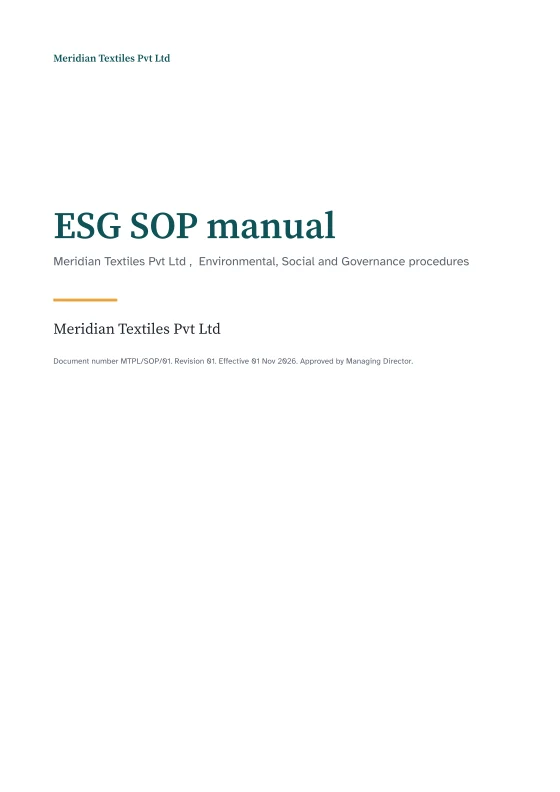
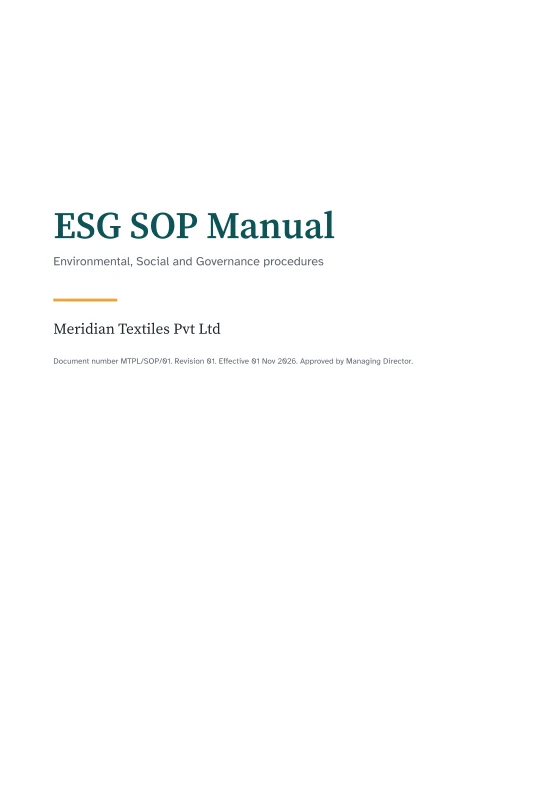
Fix new document template fonts, text and export parity

Changed region(s): [[0.0911, 0.2727, 0.8196, 0.3333], [0.0911, 0.0606, 0.3036, 0.0909]]

diff --git a/src/lib/docx/sop-generate.ts b/src/lib/docx/sop-generate.ts
@@ -57,10 +57,6 @@ import type { RenderBlock, RenderCell, RenderChapter, RenderSection, RenderSop, 
 import { embedDocumentFontStyles, embeddedDocumentFonts } from "./document-fonts";
 
 const editorial = (ctx: Ctx) => ctx.d.id === "shop-floor" || ctx.d.id === "chapter-book";
-const sentence = (text: string) => {
-  const words = text.split(" ").map(word => word === word.toUpperCase() ? word : word.toLowerCase()).join(" ");
-  return words ? words[0].toUpperCase() + words.slice(1) : words;
-};
 
 // ---------------------------------------------------------------- units
 
@@ -753,6 +749,7 @@ function table(ctx: Ctx, input: TableSpec): TableItem {
     const rowMarginBottom = Math.min(...wanted.map((margin) => margin.bottom));
     return new TableRow({
       tableHeader: spec2.header || undefined,
+      cantSplit: editorial(ctx) || undefined,
       height: spec2.height !== undefined ? { value: tw(spec2.height - (spec2.exact ? 0 : 0)), rule: spec2.exact ? HeightRule.EXACT : HeightRule.ATLEAST } : undefined,
       children: cells.map(({ cell, width, ins, flow, items }, cellIndex) => {
         const extraTop = (cell.vAlign ?? "top") === "top" ? wanted[cellIndex].top - rowMarginTop : 0;
@@ -924,7 +921,7 @@ function callout(ctx: Ctx, items: FlowItem[], width: number): TableItem {
 
 // Every part keeps with the next, so a title never sits alone at the foot of a page (Typst: a sticky block).
 function partTitle(ctx: Ctx, title: string, anchor: string): FlowItem[] {
-  if (editorial(ctx)) return [{ t: "group", above: ctx.lead + ctx.after, below: ctx.after, keep: true, items: [{ ...par(ctx, [txt(ctx, sentence(title), { font: "heading", size: ctx.sz.h1, bold: true, color: ctx.pal.primary })], { keepNext: true, outline: 0 }), bookmark: anchor }, v(ctx.after * 0.5)] }];
+  if (editorial(ctx)) return [{ t: "group", above: ctx.lead + ctx.after, below: ctx.after, keep: true, items: [{ ...par(ctx, [txt(ctx, title, { font: "heading", size: ctx.sz.h1, bold: true, color: ctx.pal.primary })], { keepNext: true, outline: 0 }), bookmark: anchor }, v(ctx.after * 0.5)] }];
   const opener = ctx.d.sopOpener;
   const size = ctx.sz.h1 * 0.85;
   if (opener === "pillar-banner" || opener === "title-banner") {
@@ -963,7 +960,7 @@ function sectionTitle(ctx: Ctx, section: RenderSection, color: string, width: nu
     const hanging = ctx.d.sectionHeading === "hanging-number" && numbered;
     const runs: RunSpec[] = [
       ...(numbered ? [txt(ctx, section.number + (hanging ? "" : "  "), { font: "heading", size: hanging ? ctx.sz.body : ctx.sz.h2, bold: true, color: hanging ? ctx.pal.ink : ctx.pal.muted }), ...(hanging ? [{ tab: true } as RunSpec] : [])] : []),
-      txt(ctx, sentence(section.title), { font: "heading", size: ctx.sz.h2, bold: true, color: ctx.pal.primary }),
+      txt(ctx, section.title, { font: "heading", size: ctx.sz.h2, bold: true, color: ctx.pal.primary }),
     ];
     return [{ t: "group", above: ctx.after * 2, below: ctx.after, keep: true, items: [par(ctx, runs, { keepNext: true, ...(hanging ? { indentLeft: 12 * MM, hanging: 12 * MM, tabs: [{ type: "left" as const, pos: 12 * MM }] } : {}) })] }];
   }
@@ -1038,10 +1035,10 @@ function sopOpener(ctx: Ctx, sop: RenderSop, bookmarks: string[]): FlowItem[] {
   };
   if (opener === "plain-title" || opener === "chapter-numeral") {
     if (opener === "chapter-numeral") {
-      out.push(mark(par(ctx, [txt(ctx, sentence(sop.department), { size: ctx.sz.h3, color: ctx.pal.primary })], { keepNext: true })), v(3),
+      out.push(mark(par(ctx, [txt(ctx, sop.department, { size: ctx.sz.h3, color: ctx.pal.primary })], { keepNext: true })), v(3),
         par(ctx, [txt(ctx, sop.number, { font: "heading", size: 68, bold: true, color: ctx.pal.primary })], { keepNext: true }), v(5));
     }
-    const title = par(ctx, [txt(ctx, sentence(sop.title), { font: "heading", size: ctx.sz.h1, bold: true, color: opener === "chapter-numeral" ? ctx.pal.ink : ctx.pal.primary })], { keepNext: true, outline: 1 });
+    const title = par(ctx, [txt(ctx, sop.title, { font: "heading", size: ctx.sz.h1, bold: true, color: opener === "chapter-numeral" ? ctx.pal.ink : ctx.pal.primary })], { keepNext: true, outline: 1 });
     out.push(opener === "plain-title" ? mark(title) : title);
     if (opener === "plain-title" && ctx.m.kind !== "handbook") out.push(v(4), par(ctx, [txt(ctx, `Code ${sop.code}`, { size: ctx.sz.small, color: ctx.pal.muted }), txt(ctx, " ", { tracking: 6 * MM }), txt(ctx, `Department ${sop.department}`, { size: ctx.sz.small, color: ctx.pal.muted }), txt(ctx, " ", { tracking: 6 * MM }), txt(ctx, `Owner ${sop.owner}`, { size: ctx.sz.small, color: ctx.pal.muted })]));
     if (opener === "chapter-numeral") out.push(v(12));
@@ -1134,12 +1131,13 @@ function stepsBlocks(ctx: Ctx, steps: RenderStep[], width: number): FlowItem[] {
         { fill: ctx.pal.accent, inset: inset(0, 0), items: [par(ctx, [txt(ctx, step.number, { bold: true })], { align: "center", keepNext: true })] },
         { inset: inset(0, 0), keepNext: true, items: [] },
         { inset: inset(0, 0), items: [par(ctx, [txt(ctx, step.heading, { bold: true })], { keepNext: true })] },
-      ] }] }), ...(step.responsible ? [par(ctx, [txt(ctx, `Responsible: ${step.responsible}`, { size: ctx.sz.small, color: ctx.pal.muted })], { keepNext: true })] : [])] : [stack(ctx, [
+      ] }] })] : [stack(ctx, [
         [txt(ctx, `${step.number}  ${step.heading}`, { bold: true, color: ctx.pal.primaryDark })],
         step.responsible ? [txt(ctx, `Responsible: ${step.responsible}`, { size: ctx.sz.small, color: ctx.pal.muted })] : null,
       ], { keepNext: true })],
     });
     out.push(...renderBlocks(ctx, step.body, width));
+    if (ctx.d.procedure === "yellow-steps" && step.responsible) out.push(par(ctx, [txt(ctx, `Responsible: ${step.responsible}`, { size: ctx.sz.small, color: ctx.pal.muted })]));
     for (const sub of step.substeps) {
       out.push(par(ctx, [
         txt(ctx, sub.number, { bold: true }),
@@ -1256,7 +1254,7 @@ function contentsRow(ctx: Ctx, lead: string, title: string, anchor: string, colo
   const variant = ctx.d.contents;
   if (variant === "ruled-index") {
     const cells: CellSpec[] = [
-      { inset: { l: 0, r: 0, t: 5, b: 5 }, items: [par(ctx, [{ link: anchor, runs: [txt(ctx, sentence(title))] }])] },
+      { inset: { l: 0, r: 0, t: 5, b: 5 }, items: [par(ctx, [{ link: anchor, runs: [txt(ctx, title)] }])] },
       { inset: { l: 0, r: 0, t: 5, b: 5 }, items: [par(ctx, [{ pageRef: anchor, color: ctx.pal.muted }])] },
     ];
     if (ctx.m.kind !== "handbook") cells.unshift({ inset: { l: 0, r: 0, t: 5, b: 5 }, items: [par(ctx, [txt(ctx, lead, { size: ctx.sz.small, color: ctx.pal.muted })])] });
@@ -1297,7 +1295,7 @@ function contentsPage(ctx: Ctx): FlowItem[] {
   for (const chapter of m.chapters) {
     if (chapter.label) {
       out.push(v(gap));
-      if (editorial(ctx)) { out.push(par(ctx, [txt(ctx, sentence(chapter.label), { bold: true, color: ctx.pal.primary })])); } else if (variant === "pillar-index" || variant === "banner-index") {
+      if (editorial(ctx)) { out.push(par(ctx, [txt(ctx, chapter.label, { bold: true, color: ctx.pal.primary })])); } else if (variant === "pillar-index" || variant === "banner-index") {
         out.push(box(ctx, ctx.W, [par(ctx, [caps(ctx, chapter.label, { color: variant === "pillar-index" ? ctx.pal.onPrimary : ctx.pal.primary })])], {
           fill: variant === "pillar-index" ? chapter.color : ctx.pal.soft,
           inset: inset(7, 3),
@@ -1432,7 +1430,7 @@ function headerItems(ctx: Ctx, sop: SopMeta): FlowItem[] {
   const variant = ctx.d.runningHeader;
   if (variant === "plain-line" || variant === "book-rule") {
     const color = variant === "book-rule" ? ctx.pal.primary : ctx.pal.muted;
-    return [par(ctx, [txt(ctx, sentence(sop?.title ?? m.title), { size: small, color }), { tab: true }, txt(ctx, m.kind === "handbook" ? `Version ${m.control.revision}` : `${m.control.docNo}, revision ${m.control.revision}`, { size: small, color })], { blockLike: true, tabs: [{ type: "right", pos: ctx.W }] }), v(2), rule(variant === "book-rule" ? ctx.pal.primary : ctx.pal.line, RULE)];
+    return [par(ctx, [txt(ctx, sop?.title ?? m.title, { size: small, color }), { tab: true }, txt(ctx, m.kind === "handbook" ? `Version ${m.control.revision}` : `${m.control.docNo}, revision ${m.control.revision}`, { size: small, color })], { blockLike: true, tabs: [{ type: "right", pos: ctx.W }] }), v(2), rule(variant === "book-rule" ? ctx.pal.primary : ctx.pal.line, RULE)];
   }
   if (m.kind === "handbook" && variant === "control-table") {
     return [par(ctx, [txt(ctx, m.title, { bold: true }), { tab: true }, txt(ctx, `Version ${m.control.revision}  |  Effective ${m.control.effectiveDate}`, { size: small })], { tabs: [{ type: "right", pos: ctx.W }] })];
@@ -1661,9 +1659,11 @@ async function coverParts(ctx: Ctx): Promise<CoverParts> {
     const shop = d.cover === "hazard-band";
     const x = (shop ? 38 : d.page.marginXMm) * MM;
     const width = w - x - padX;
-    const items: FlowItem[] = [par(ctx, [logoOrName(ctx, 11 * MM)], { blockLike: true }), v(58 * MM - (m.company.logo ? 11 * MM : ctx.sz.h3) - ctx.after),
-      { ...heading(sentence(m.cover.title), ctx.pal.primary), lead: 2 },
-      ...(m.cover.subtitle ? [par(ctx, [txt(ctx, m.cover.subtitle.replaceAll(" | ", ", "), { size: ctx.sz.h2, color: ctx.pal.muted })], { lead: 2 })] : []), v(10 * MM),
+    const subtitle = m.cover.subtitle.split(/\s*\|\s*/).filter(segment => segment !== m.company.name && segment !== "").join(", ");
+    // A leading spacer needs the margin correction that a first text line normally absorbs.
+    const items: FlowItem[] = [...(m.company.logo ? [par(ctx, [logoOrName(ctx, 11 * MM)], { blockLike: true }), v(47 * MM - ctx.after)] : [v(58 * MM + topShift(ctx))]),
+      { ...heading(m.cover.title, ctx.pal.primary), lead: 2 },
+      ...(subtitle ? [par(ctx, [txt(ctx, subtitle, { size: ctx.sz.h2, color: ctx.pal.muted })], { lead: 2 })] : []), v(10 * MM + (subtitle ? 0 : ctx.lead + ctx.after)),
       ...(!shop ? [rule(ctx.pal.accent, 3, { right: width - 24 * MM, above: ctx.after, below: ctx.after }), v(6 * MM)] : []),
       par(ctx, [txt(ctx, m.company.name, { font: "heading", size: 16 })], { lead: 2 }),
     ];
@@ -2114,7 +2114,7 @@ export async function generateSopDocx(model: SopRenderModel, assets: ManualAsset
     },
     sections,
   });
-  return embedDocumentFontStyles(await finishXml(await unpackedDocx(doc)), families);
+  return embedDocumentFontStyles(await finishXml(await unpackedDocx(doc)), families, editorial(ctx));
 }
 
 type DocxCompiler = { compile(file: Document, prettify: undefined, overrides: never[]): JSZip };

diff --git a/src/scripts/policy-docx-regression.ts b/src/scripts/policy-docx-regression.ts
@@ -1,0 +1,69 @@
+// Policy DOCX regression against the pre-template renderer and font embedding.
+// Run: node --import tsx scripts/policy-docx-regression.ts [--tests]
+import assert from "node:assert/strict";
+import { execFileSync } from "node:child_process";
+import { writeFileSync, unlinkSync } from "node:fs";
+import { mock } from "node:test";
+import JSZip from "jszip";
+import { generateDocx } from "../lib/docx/generate";
+import { templatePreviewPolicy } from "../lib/sample-policies";
+async function normalizedDocx(data: Buffer) {
+  const zip = await JSZip.loadAsync(data);
+  const fontTable = await zip.file("word/fontTable.xml")!.async("string");
+  const rels = await zip.file("word/_rels/fontTable.xml.rels")!.async("string");
+  const keys = new Map<string, string>();
+  for (const embed of fontTable.matchAll(/<w:embed\w+\b[^>]+>/g)) {
+    const id = /r:id="([^"]+)"/.exec(embed[0])?.[1];
+    const key = /w:fontKey="([^"]+)"/.exec(embed[0])?.[1];
+    const rel = [...rels.matchAll(/<Relationship\b[^>]+>/g)].find(match => match[0].includes(`Id="${id}"`));
+    const target = rel && /Target="([^"]+)"/.exec(rel[0])?.[1];
+    if (target && key) keys.set(`word/${target}`, key);
+  }
+  const entries = new Map<string, Buffer>();
+  for (const name of Object.keys(zip.files).sort()) {
+    if (zip.files[name].dir) continue;
+    let content = await zip.file(name)!.async("nodebuffer");
+    const key = keys.get(name);
+    if (key) {
+      content = Buffer.from(content);
+      const bytes = key.replaceAll(/[{}-]/g, "").match(/../g)!.map(byte => parseInt(byte, 16)).reverse();
+      for (let i = 0; i < 32; i++) content[i] ^= bytes[i % 16];
+    }
+    if (name === "word/fontTable.xml") content = Buffer.from(content.toString().replace(/w:fontKey="[^"]+"/g, 'w:fontKey="KEY"'));
+    entries.set(name, content);
+  }
+  return entries;
+}
+
+async function main() {
+  const prefix = `.policy-baseline-${process.pid}`;
+  const files = [`lib/docx/${prefix}-fonts.ts`, `lib/docx/${prefix}-generate.ts`, `lib/docx/${prefix}.test.ts`];
+  try {
+    const old = (file: string) => execFileSync("git", ["show", `5b0714c:src/lib/docx/${file}`], { encoding: "utf8" });
+    writeFileSync(files[0], old("document-fonts.ts"));
+    writeFileSync(files[1], old("generate.ts").replace('"./document-fonts"', `"./${prefix}-fonts"`));
+    writeFileSync(files[2], old("generate.test.ts").replace('"./generate"', `"./${prefix}-generate"`));
+    if (process.argv.includes("--tests")) {
+      console.log(execFileSync(process.execPath, ["--import", "tsx", "--test", files[2]], { encoding: "utf8" }));
+      return;
+    }
+    mock.timers.enable({ apis: ["Date"], now: new Date("2026-10-01T00:00:00Z").getTime() });
+    const baseline = await import(`../${files[1]}`) as { generateDocx: typeof generateDocx };
+    for (const id of ["standard-pack", "executive-brief", "controlled-manual", "governance-register", "operations-guide", "sustainability-charter", "people-charter", "metrics-ledger"]) {
+      const policy = templatePreviewPolicy(id, "environmental");
+      const before = await normalizedDocx(await baseline.generateDocx(policy));
+      const after = await normalizedDocx(await generateDocx(policy));
+      assert.deepEqual([...before.keys()], [...after.keys()], id);
+      for (const [name, content] of before) assert.ok(content.equals(after.get(name)!), `${id}: ${name}`);
+      console.log(`${id}: every DOCX part identical to 5b0714c after font-key deobfuscation (fixed clock)`);
+    }
+  } catch (error) {
+    if (error && typeof error === "object" && "stdout" in error) console.log(error.stdout);
+    else console.error(error);
+    process.exitCode = 1;
+  } finally {
+    mock.timers.reset();
+    for (const file of files) unlinkSync(file);
+  }
+}
+main();

diff --git a/src/lib/docx/sop-generate.test.ts b/src/lib/docx/sop-generate.test.ts
@@ -200,7 +200,7 @@ test("an SOP code that already starts with SOP is not printed as \"SOP SOP-…\"
 
 
 for (const id of ["shop-floor", "chapter-book"] as const) {
-  test(`${id}: Word uses sentence case, horizontal tables and all four font slots`, async () => {
+  test(`${id}: Word preserves authored text, uses horizontal tables and all four font slots`, async () => {
     const { model, assets } = await sample(id);
     const { document, fontTable } = await open(await generateSopDocx(model, assets));
     assert.doesNotMatch(document, /w:caps|w:spacing w:val="12"/);
@@ -210,5 +210,36 @@ for (const id of ["shop-floor", "chapter-book"] as const) {
     }
     assert.match(document, id === "shop-floor" ? /shop-floor-band/ : /w:sz w:val="136"/);
     assert.ok(SOP_DESIGNS.find(design => design.id === id)?.table.borders === "horizontal");
+  });
+}
+
+for (const id of ["shop-floor", "chapter-book"] as const) {
+  test(`${id}: cover has one company name, exact titles, variant step order and whole rows`, async () => {
+    const { model, assets } = await sample(id);
+    model.cover.title = "ESG SOP Manual";
+    model.cover.subtitle = `${model.company.name}  |  ESG Line  |  Operations`;
+    const sop = model.chapters[0].sops[0];
+    sop.title = "ISO Audit SOP";
+    sop.department = "ESG Operations";
+    sop.sections[0].title = "ESG Scope";
+    const { document } = await open(await generateSopDocx(model, assets));
+    const body = document.replace(/<[^>]+>/g, "");
+    const cover = body.slice(0, body.indexOf("Contents"));
+    assert.equal(cover.split(model.company.name).length - 1, 1);
+    assert.ok(cover.includes("ESG SOP Manual"));
+    assert.ok(cover.includes("ESG Line, Operations"));
+    for (const value of [sop.title, sop.department, sop.sections[0].title]) assert.ok(body.includes(value), value);
+    const step = sop.sections.find(section => section.steps?.length)?.steps?.[0];
+    assert.ok(step);
+    const heading = body.lastIndexOf(step.heading);
+    const responsible = body.indexOf(`Responsible: ${step.responsible}`, heading);
+    const paragraph = step.body.find(block => block.type === "p");
+    assert.ok(paragraph && paragraph.type === "p");
+    const action = body.indexOf(smartQuotes(paragraph.text), heading);
+    assert.ok(action > heading);
+    assert.ok(id === "shop-floor" ? action < responsible : responsible < action);
+    const rowProperties = document.match(/<w:trPr>[\s\S]*?<\/w:trPr>/g) ?? [];
+    assert.ok(rowProperties.length > 0);
+    assert.ok(rowProperties.every(row => row.includes("<w:cantSplit")));
   });
 }

diff --git a/src/lib/docx/document-fonts.ts b/src/lib/docx/document-fonts.ts
@@ -10,9 +10,9 @@ import { LIBRARY_WORD_SLOTS } from "../document-font-library";
 type FontSlot = "regular" | "bold" | "italic" | "bold-italic";
 const FONT_FACES: Record<string, readonly FontSlot[]> = {
   "Source Sans 3": ["regular", "bold", "italic"],
-  "Source Serif 4": ["regular", "bold", "italic", "bold-italic"],
+  "Source Serif 4": ["regular", "bold", "italic"],
   "Libre Caslon Text": ["regular", "bold", "italic"],
-  "IBM Plex Sans": ["regular", "bold", "italic", "bold-italic"],
+  "IBM Plex Sans": ["regular", "bold"],
   "IBM Plex Serif": ["regular", "bold", "italic"],
   Inter: ["regular", "bold"],
   "Atkinson Hyperlegible": ["regular", "bold", "italic", "bold-italic"],
@@ -52,7 +52,7 @@ function obfuscateFont(data: Buffer, fontKey: string) {
 }
 
 /** Adds the bold and italic faces next to each regular face the docx package already embedded. */
-export async function embedDocumentFontStyles(docx: Buffer, families: string[]): Promise<Buffer> {
+export async function embedDocumentFontStyles(docx: Buffer, families: string[], includeAllStyles = false): Promise<Buffer> {
   const embeddable = embeddableFamilies(families);
   if (!embeddable.length) return docx;
   const zip = await JSZip.loadAsync(docx);
@@ -70,7 +70,9 @@ export async function embedDocumentFontStyles(docx: Buffer, families: string[]):
     const regular = new RegExp(`(<w:font w:name="${escaped}">[\\s\\S]*?<w:embedRegular\\b[^>]*/>)`);
     if (!regular.test(fontTable)) continue;
     const embeds: string[] = [];
-    for (const slot of FONT_FACES[family]) {
+    // The new manuals use all four faces; policy exports retain their existing slots.
+    const slots: readonly FontSlot[] = includeAllStyles && ["IBM Plex Sans", "Source Serif 4"].includes(family) ? ["regular", "bold", "italic", "bold-italic"] : FONT_FACES[family];
+    for (const slot of slots) {
       if (slot === "regular") continue;
       const fontKey = randomUUID().toUpperCase();
       const id = `rId${nextId++}`;

diff --git a/src/lib/docx/generate.test.ts b/src/lib/docx/generate.test.ts
@@ -68,6 +68,7 @@ test("active theme fonts are embedded with real bold faces so Word does not synt
     const fontRecord = fontTable.match(new RegExp(`<w:font w:name="${escapedFamily}">[\\s\\S]*?<\\/w:font>`));
     assert.ok(fontRecord, `${fixture.theme}: font table should declare ${family}`);
     assert.equal(/<w:embedItalic\b/.test(fontRecord[0]), fixture.italic, `${fixture.theme}: italic embedding should follow the faces the PDF loads`);
+    if (["IBM Plex Sans", "Source Serif 4"].includes(family)) assert.doesNotMatch(fontRecord[0], /<w:embedBoldItalic\b/, "new manual faces must not change policy font embedding");
     const faces: Buffer[] = [];
     for (const element of ["embedRegular", "embedBold"]) {
       const relationshipId = fontRecord[0].match(new RegExp(`<w:${element} r:id="([^"]+)"`));

diff --git a/src/next.config.ts b/src/next.config.ts
@@ -14,7 +14,7 @@ import type { NextConfig } from "next";
 const policyPdfEngine = process.env.POLICY_PDF_ENGINE === "typst" ? "typst" : "chromium";
 
 /** Must equal SOP_FONT_FAMILIES (lib/sop/design/templates.ts); lib/output-tracing.test.ts checks it. */
-export const SOP_FONT_SLUGS = ["caladea", "carlito", "montserrat", "open-sans", "poppins", "lato", "arimo", "merriweather", "pt-sans", "tinos"];
+export const SOP_FONT_SLUGS = ["caladea", "carlito", "montserrat", "open-sans", "poppins", "lato", "arimo", "merriweather", "pt-sans", "tinos", "ibm-plex-sans", "source-serif-4", "atkinson-hyperlegible"];
 
 /** Word TTFs no SOP template uses; the SOP routes leave them out. */
 function nonSopWordFonts(): string[] {
